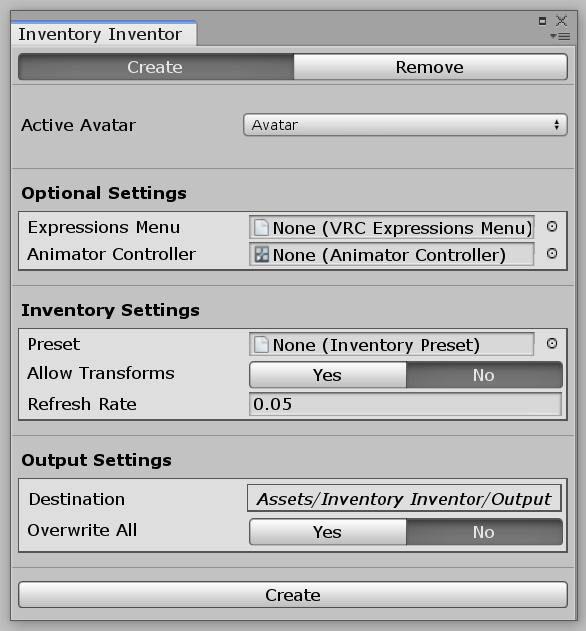
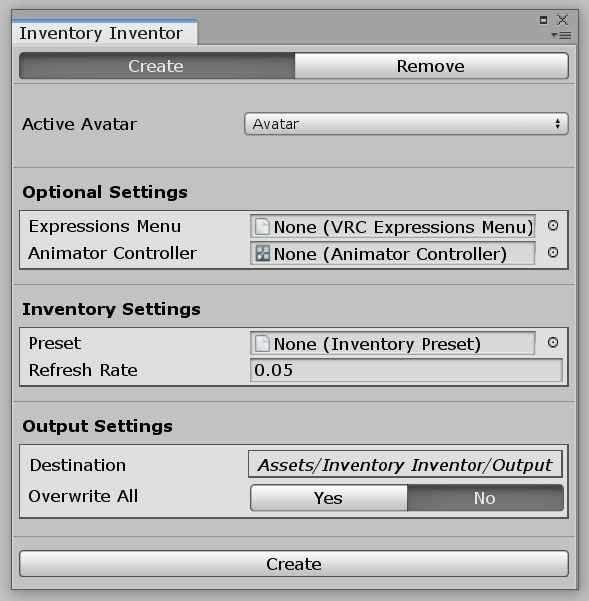
Moved the Allow Transforms option to the settings and renamed it Allow Invalid Animations

Changed region(s): [[0.0, 0.0, 0.9829, 0.9884]]

diff --git a/Engine/Assets/InventorSettings.cs b/Engine/Assets/InventorSettings.cs
@@ -18,6 +18,10 @@ namespace InventoryInventor.Settings
 
         [SerializeField]
         [HideInInspector]
+        private bool m_AllowInvalid;
+
+        [SerializeField]
+        [HideInInspector]
         private string m_DefaultPath;
 
         [SerializeField]
@@ -49,6 +53,7 @@ namespace InventoryInventor.Settings
             {
                 settings = CreateInstance<InventorSettings>();
                 settings.m_AutoUpdate = true;
+                settings.m_AllowInvalid = false;
                 settings.m_DefaultPath = settingsPath.Substring(0, settingsPath.LastIndexOf("Editor") - 1) + Path.DirectorySeparatorChar + "Output";
                 settings.m_LastPath = settings.m_DefaultPath;
                 AssetDatabase.CreateAsset(settings, settingsPath);
@@ -76,8 +81,9 @@ namespace InventoryInventor.Settings
 
         class Styles
         {
-            public static GUIContent autoUpdate = new GUIContent("Automatic Update Checker");
-            public static GUIContent defaultPath = new GUIContent("Default Output Destination");
+            public static GUIContent autoUpdate = new GUIContent("Automatic Update Checker", "Check for updates whenever Unity starts.");
+            public static GUIContent allowInvalid = new GUIContent("Allow Invalid Animations", "Skip the check for invalid Animation properties when applying Presets.");
+            public static GUIContent defaultPath = new GUIContent("Default Output Destination", "The default output location the Manager will fallback on when it is unable to use the provided location.");
             public static GUIContent upgradeButton = new GUIContent("Upgrade All Old Presets");
         }
 
@@ -105,6 +111,14 @@ namespace InventoryInventor.Settings
             EditorGUILayout.LabelField(Styles.autoUpdate, new GUILayoutOption[] { GUILayout.MinWidth(160f) });
             m_InventorSettings.FindProperty("m_AutoUpdate").boolValue = !Convert.ToBoolean(GUILayout.Toolbar(Convert.ToInt32(!m_InventorSettings.FindProperty("m_AutoUpdate").boolValue), new string[] { "Yes", "No" }, new GUILayoutOption[] { GUILayout.MinWidth(128f), GUILayout.MaxWidth(384f) }));
             EditorGUILayout.EndHorizontal();
+            GUILayout.Space(2);
+
+            // Auto Update
+            EditorGUILayout.BeginHorizontal();
+            EditorGUILayout.LabelField(Styles.allowInvalid, new GUILayoutOption[] { GUILayout.MinWidth(160f) });
+            m_InventorSettings.FindProperty("m_AllowInvalid").boolValue = !Convert.ToBoolean(GUILayout.Toolbar(Convert.ToInt32(!m_InventorSettings.FindProperty("m_AllowInvalid").boolValue), new string[] { "Yes", "No" }, new GUILayoutOption[] { GUILayout.MinWidth(128f), GUILayout.MaxWidth(384f) }));
+            EditorGUILayout.EndHorizontal();
+            GUILayout.Space(4);
 
             // Default Path
             EditorGUILayout.BeginHorizontal();
@@ -114,9 +128,9 @@ namespace InventoryInventor.Settings
             if (EditorGUI.EndChangeCheck() && !m_InventorSettings.FindProperty("m_DefaultPath").stringValue.StartsWith("Assets"))
                 m_InventorSettings.FindProperty("m_DefaultPath").stringValue = k_InventorSettingsPath.Substring(0, k_InventorSettingsPath.LastIndexOf("Editor") - 1) + Path.DirectorySeparatorChar + "Output";
             EditorGUILayout.EndHorizontal();
+            EditorGUILayout.Space();
 
             // Upgrade All
-            EditorGUILayout.Space();
             DrawLine(false);
             EditorGUILayout.BeginHorizontal();
             GUILayout.FlexibleSpace();

diff --git a/Editor/Scripts/InventoryInventor.cs b/Editor/Scripts/InventoryInventor.cs
@@ -29,7 +29,6 @@ namespace InventoryInventor
         public float refreshRate = 0.05f;
         public bool removeParameters = false;
         public bool removeExpParams = false;
-        public bool allowTransforms = false;
 
         // Path related.
         public string relativePath;
@@ -127,17 +126,17 @@ namespace InventoryInventor
                         switch (item.Type)
                         {
                             case PageItem.ItemType.Toggle:
-                                if (item.UseAnimations && !allowTransforms)
+                                if (item.UseAnimations && InventorSettings.GetSerializedSettings().FindProperty("m_AllowInvalid").boolValue)
                                 {
                                     if (!CheckCompatibility(item.EnableClip, false, out Type problem, out string propertyName))
                                     {
-                                        EditorUtility.DisplayDialog("Inventory Inventor", "ERROR: " + item.EnableClip.name + " cannot be used because it modifies an invalid property type!\nUse \"Allow Transforms\" to ignore this and continue.\nInvalid Property Type: " + problem.Name + "\nName: " + propertyName, "Close");
+                                        EditorUtility.DisplayDialog("Inventory Inventor", "ERROR: " + item.EnableClip.name + " cannot be used because it modifies an invalid property type!\nUse \"Allow Invalid Animations\" to ignore this and continue.\nInvalid Property Type: " + problem.Name + "\nName: " + propertyName, "Close");
                                         Selection.activeObject = item.EnableClip;
                                         return;
                                     }
                                     if (!CheckCompatibility(item.DisableClip, false, out problem, out propertyName))
                                     {
-                                        EditorUtility.DisplayDialog("Inventory Inventor", "ERROR: " + item.DisableClip.name + " cannot be used because it modifies an invalid property type!\nUse \"Allow Transforms\" to ignore this and continue.\nInvalid Property Type: " + problem.Name + "\nName: " + propertyName, "Close");
+                                        EditorUtility.DisplayDialog("Inventory Inventor", "ERROR: " + item.DisableClip.name + " cannot be used because it modifies an invalid property type!\nUse \"Allow Invalid Animations\" to ignore this and continue.\nInvalid Property Type: " + problem.Name + "\nName: " + propertyName, "Close");
                                         Selection.activeObject = item.DisableClip;
                                         return;
                                     }

diff --git a/Editor/Windows/InventoryInventorWindow.cs b/Editor/Windows/InventoryInventorWindow.cs
@@ -17,7 +17,7 @@ namespace InventoryInventor
         private readonly Manager manager = new Manager();
 
         // Window Size.
-        private Rect windowSize = new Rect(0, 0, 375f, 370f);
+        private Rect windowSize = new Rect(0, 0, 375f, 350f);
 
         // Various Trackers.
         private int windowTab;
@@ -30,14 +30,14 @@ namespace InventoryInventor
         private List<bool> expression;
 
         // Colors
-        private readonly static Color32 navy = new Color32(143, 0, 254, 255);
+        private readonly static Color32 navy = new Color32(143, 0, 254, 255);   
 
         [MenuItem("Tools/Avatars 3.0/Inventory Inventor/Manage Inventory", priority = 0)]
         public static void ManageInventory()
         {
             InventoryInventorWindow window = (InventoryInventorWindow)GetWindow(typeof(InventoryInventorWindow), false, "Inventory Inventor");
             window.manager.outputPath = InventorSettings.GetSerializedSettings().FindProperty("m_LastPath").stringValue;
-            window.minSize = new Vector2(375f, 375f);
+            window.minSize = new Vector2(375f, 355f);
             window.wantsMouseMove = true;
             window.Show();
         }
@@ -138,11 +138,6 @@ namespace InventoryInventor
             EditorGUILayout.BeginVertical(new GUIStyle(GUI.skin.GetStyle("Box")));
             // Preset
             manager.preset = (InventoryPreset)EditorGUILayout.ObjectField(new GUIContent("Preset", "The preset to apply to the Animator."), manager.preset, typeof(InventoryPreset), false);
-            // Allow Transforms.
-            EditorGUILayout.BeginHorizontal();
-            EditorGUILayout.PrefixLabel(new GUIContent("Allow Transforms", "Skips the check for invalid Animation properties.\n(Can result in unintended behavior)"));
-            manager.allowTransforms = !Convert.ToBoolean(GUILayout.Toolbar(Convert.ToInt32(!manager.allowTransforms), new string[] { "Yes", "No" }));
-            EditorGUILayout.EndHorizontal();
             // Refresh Rate
             manager.refreshRate = Mathf.Clamp(EditorGUILayout.FloatField(new GUIContent("Refresh Rate", "How long each synced (or unsaved) toggle is given to synchronize with late joiners (seconds per item)."), manager.refreshRate), 0f, float.MaxValue);
             EditorGUILayout.EndVertical();

diff --git a/README.md b/README.md
@@ -212,6 +212,20 @@ Any layers or parameters that will be removed from the provided Controller durin
 | Remove Parameters | Remove all parameters involved with the Inventory<br>(If you have other parameters named "Inventory ###", they will also be removed). |
 | Include Expression | (When using Remove Parameters,) also remove Expression Parameters related to the removed parameters if they exist. |
 
+## Available Settings
+<p align="center">
+  <img width="80%" height="80%" src="Images/Other/Settings.png">
+</p>
+
+Inventory Inventor has a few persistent settings and options you can access within Project Settings ('Edit -> Project Settings').
+
+| Setting | Description |
+| :----: | ------ |
+| Automatic Update Checker | Check for updates whenever Unity starts. If an update is found, you can choose to download and install it automatically. |
+| Allow Transforms | Skips the check for invalid Animation properties.<br>(Can result in unintended behavior. Only use if you know what you're doing.) |
+| Default Output Path | The default output location the Manager will fallback on when it is unable to use the provided location.<br>(Must be located within the Assets folder.) |
+| Upgrade All Old Presets | Automatically search for and upgrade any and all older Presets found within the Project. |
+
 ## Common Questions
 **Can I have multiple Inventories on a single Avatar?**
 >Not at the moment. I don't really plan or see the need for this feature, but if I see demand for it I will supply.
